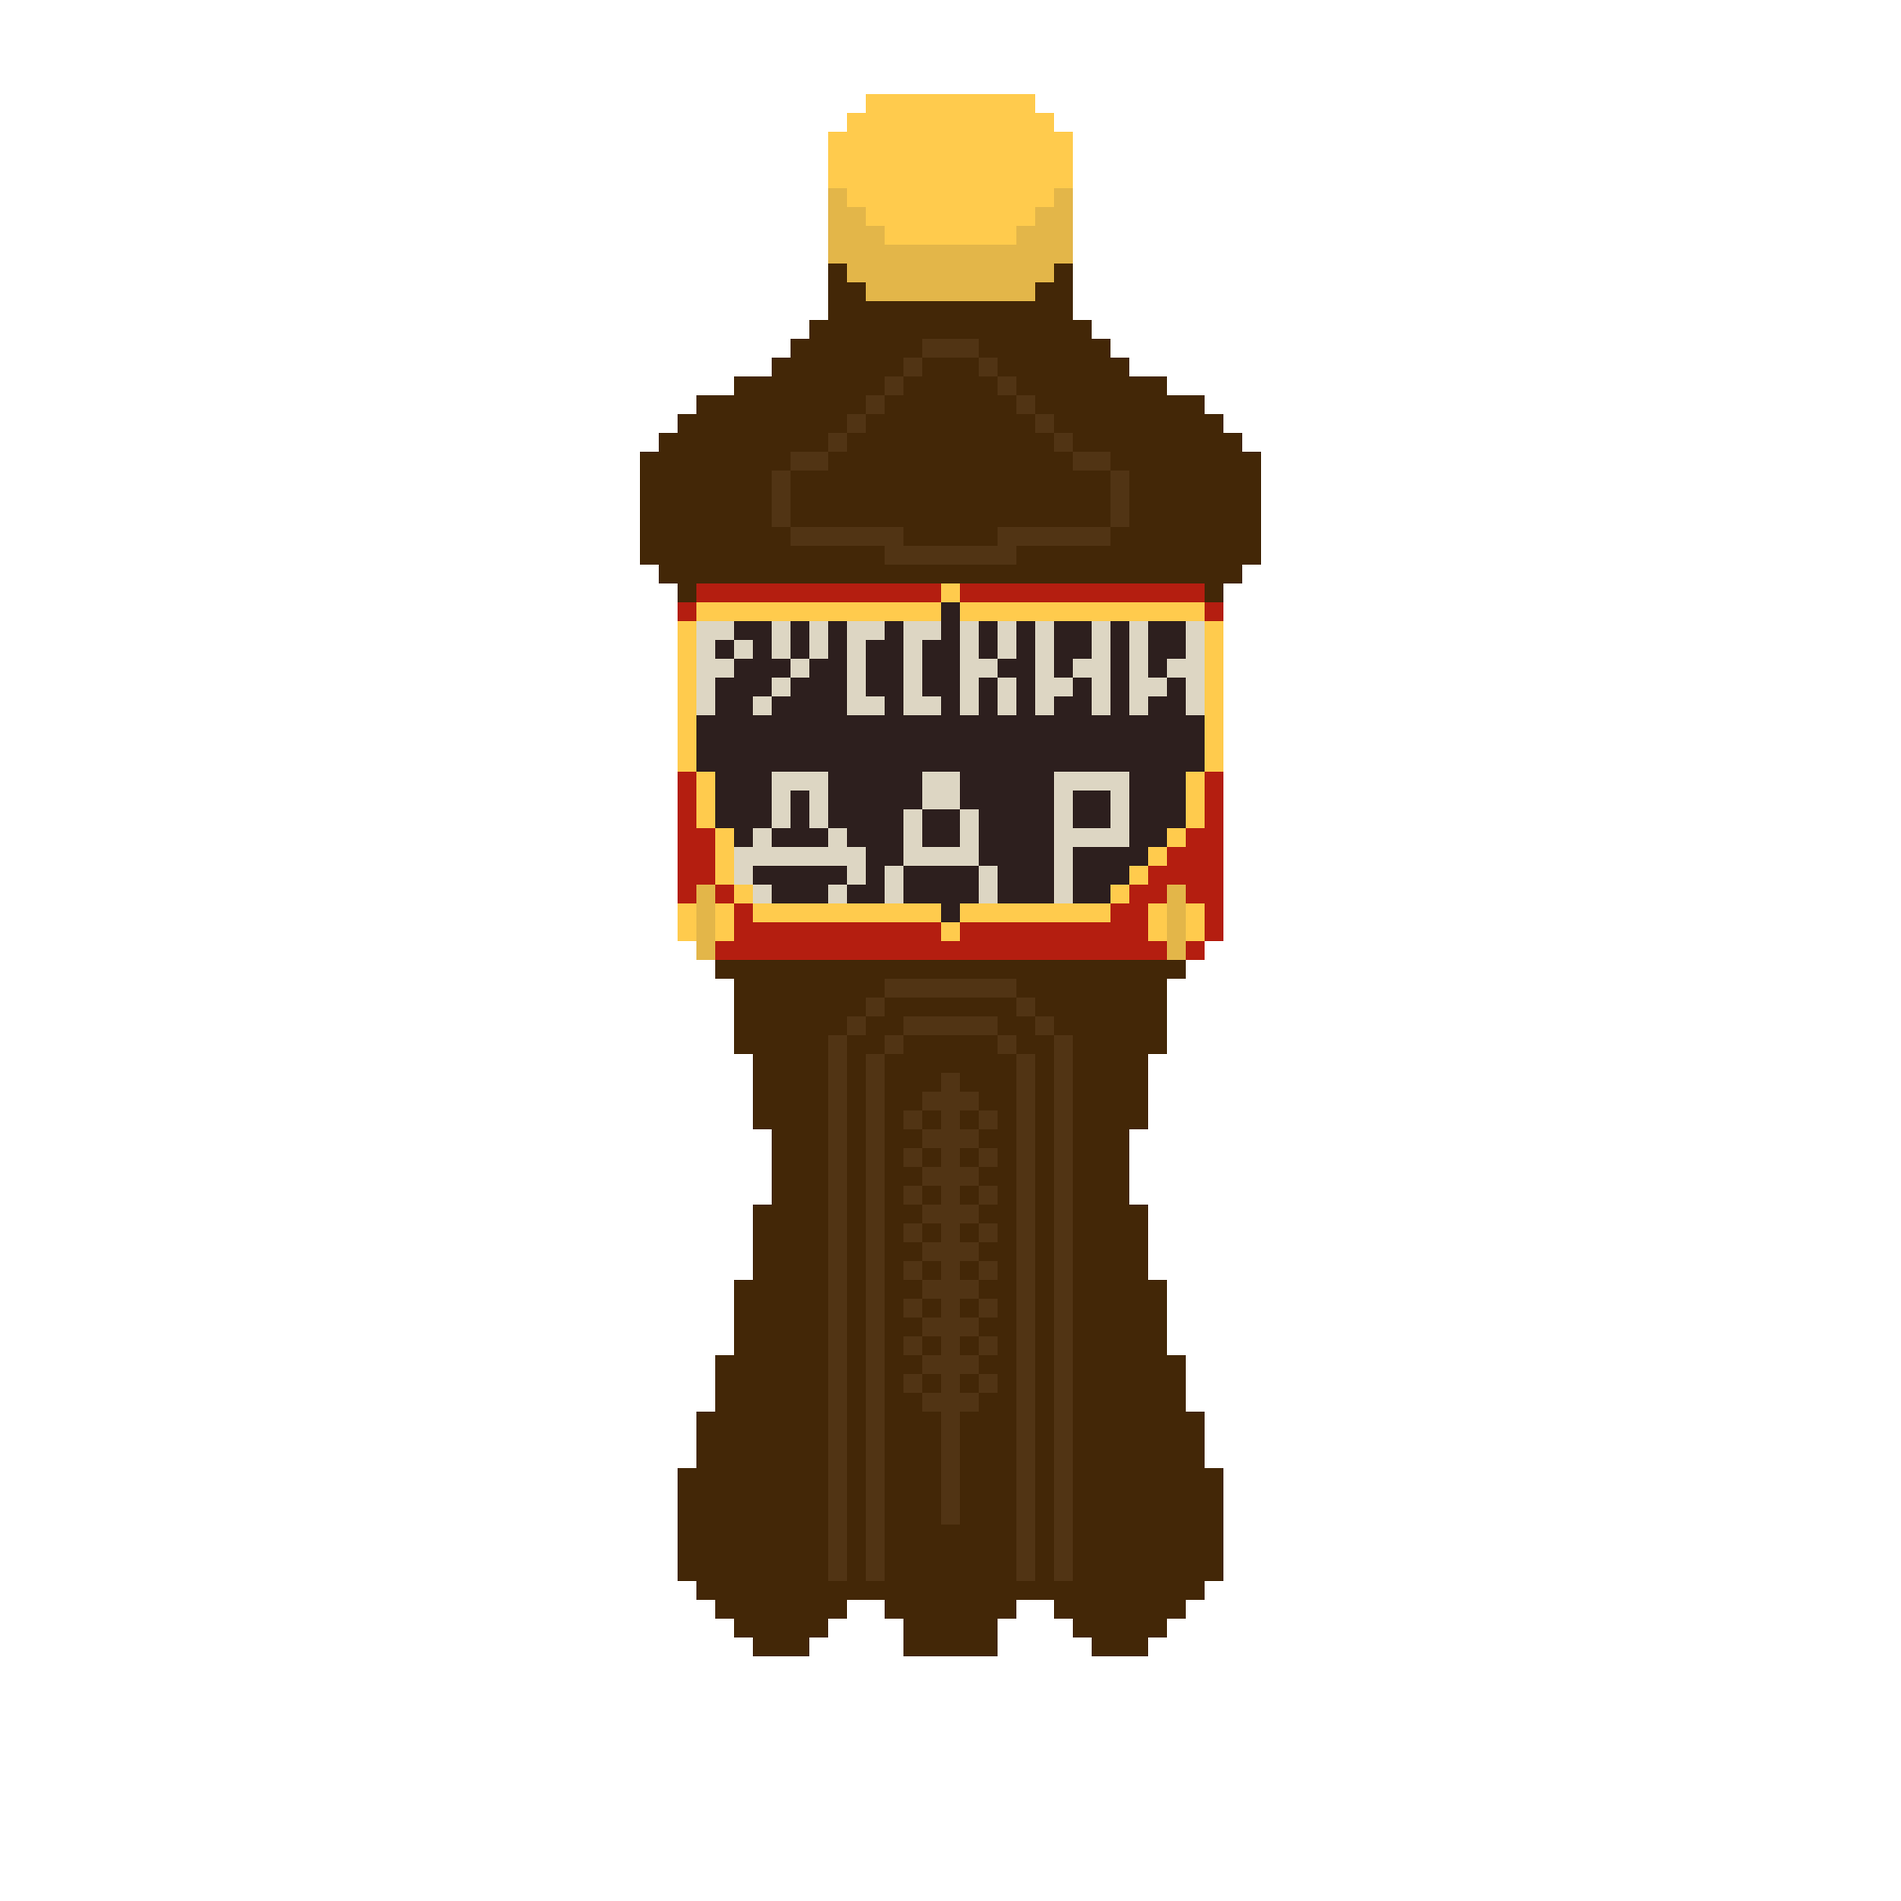
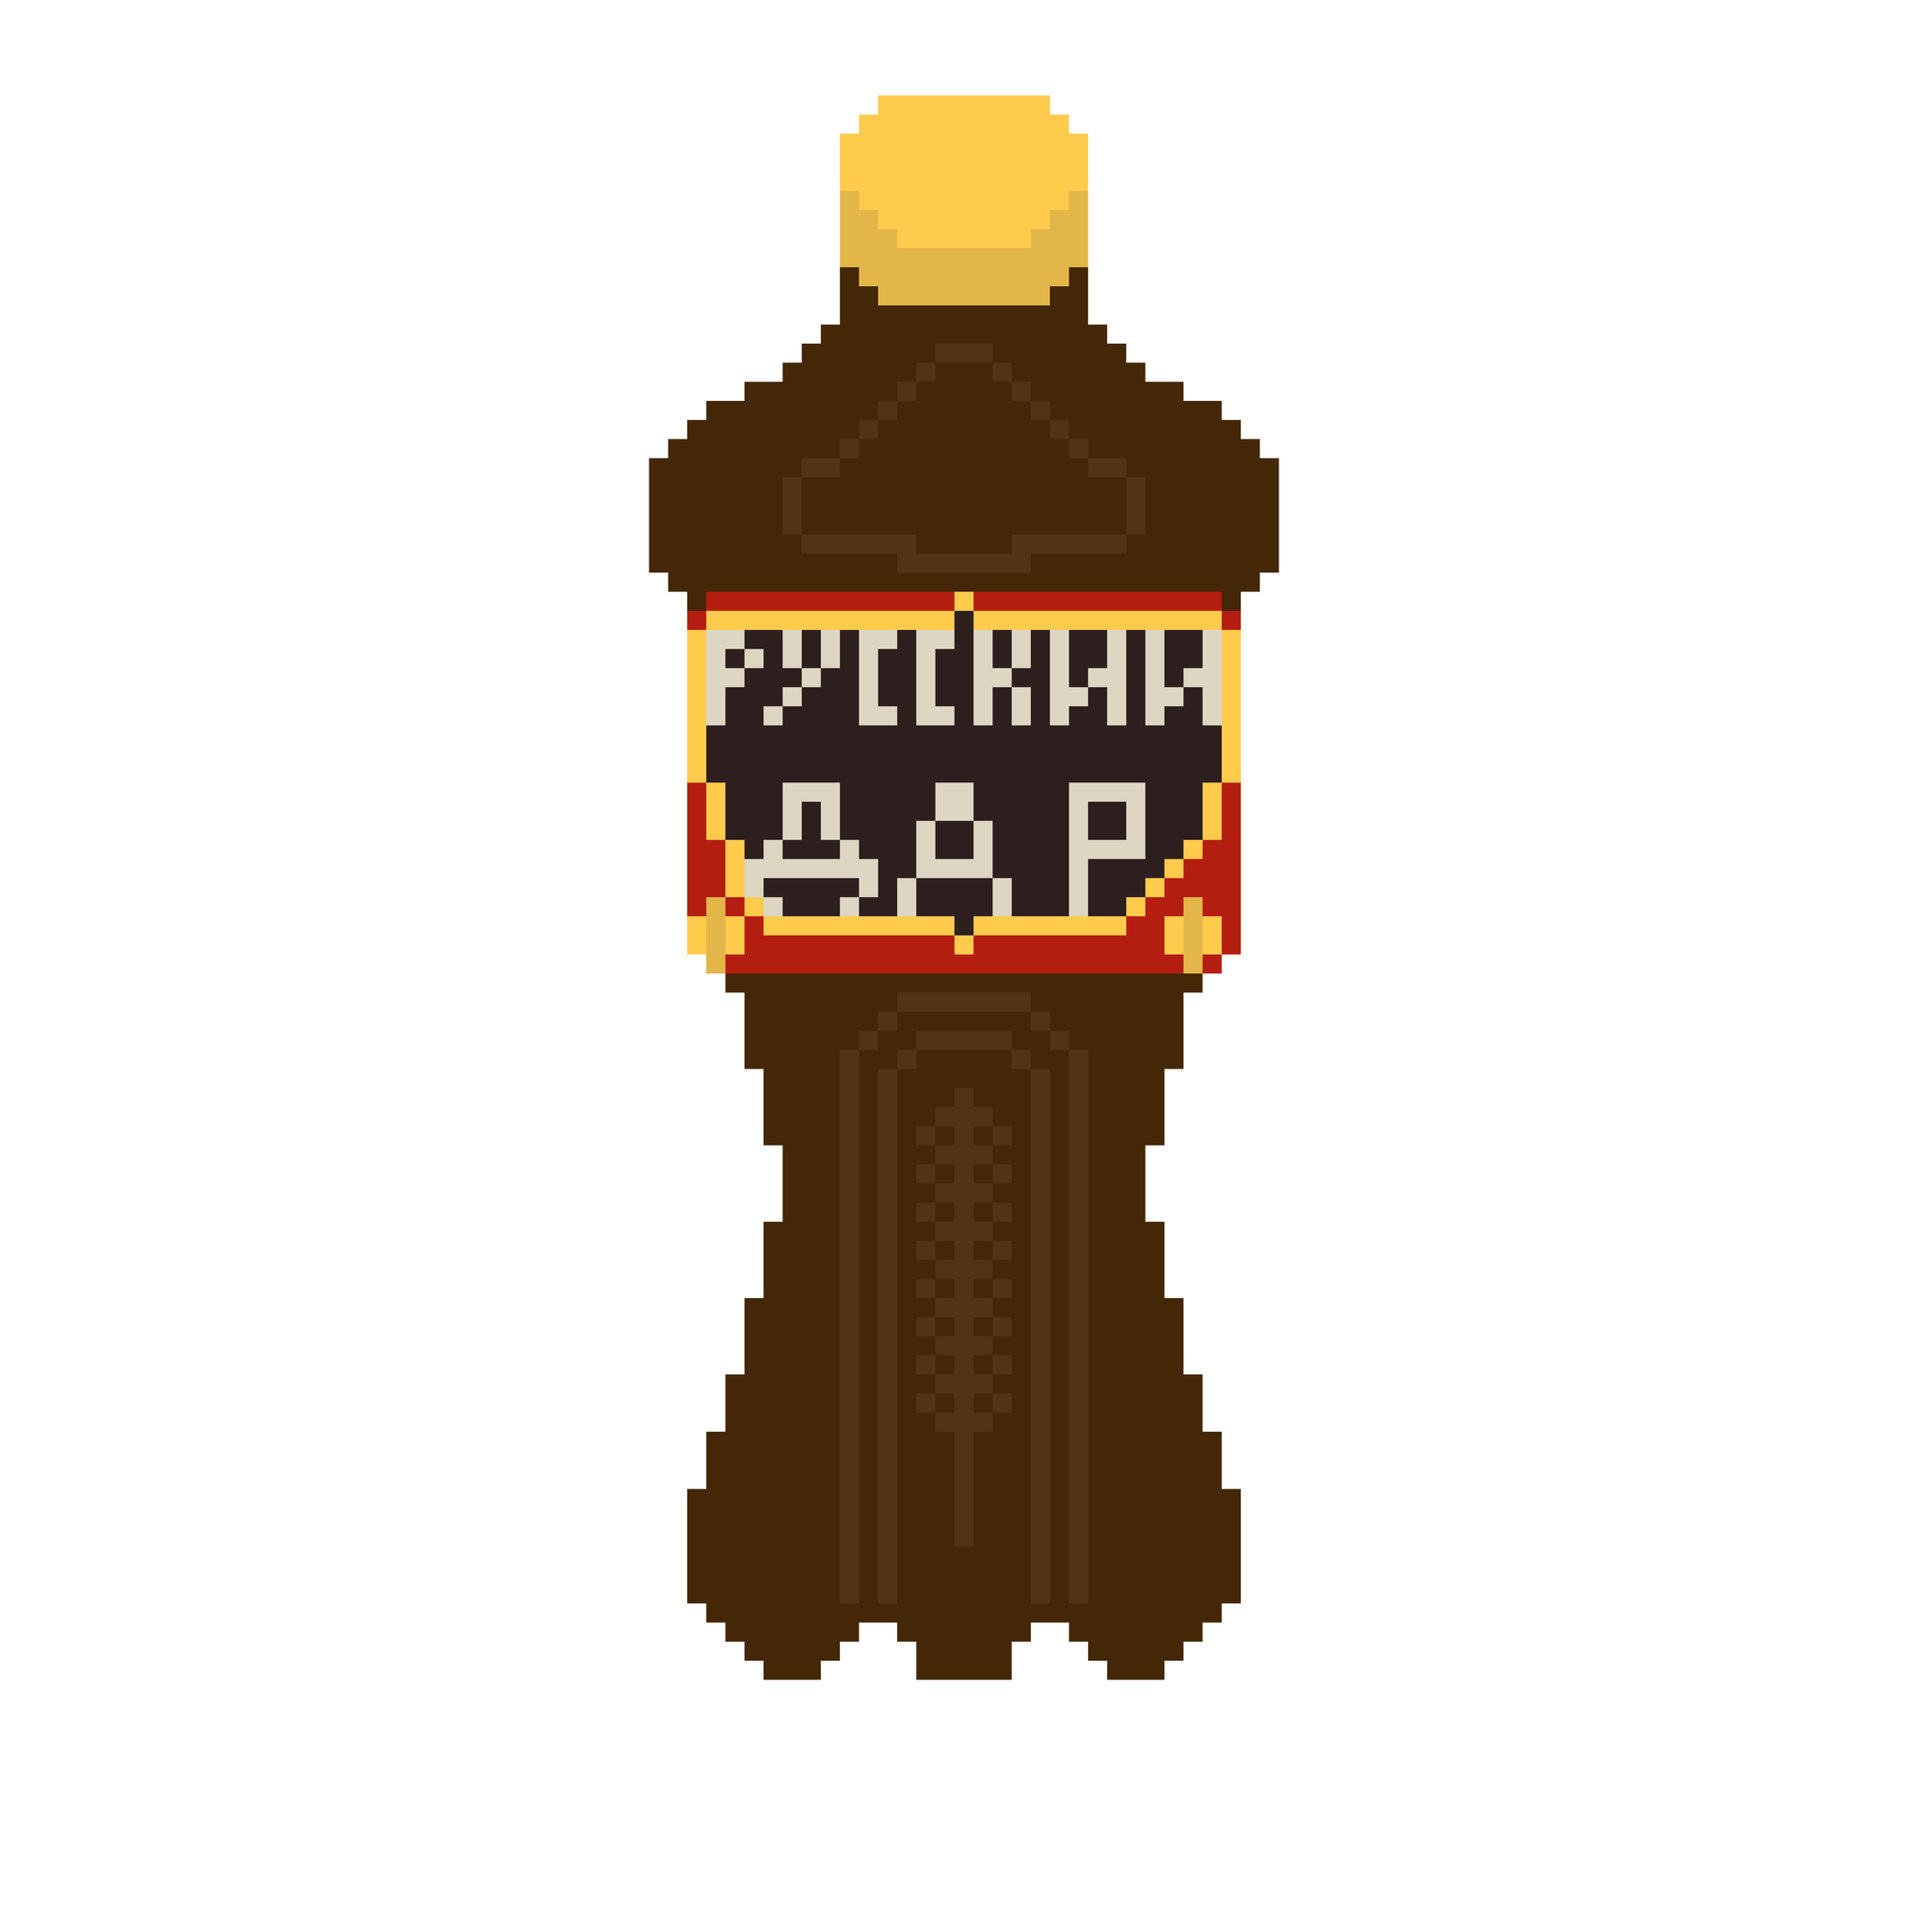
GRAIN FINALLY FIXED(for real now)

Changed region(s): [[0.5614, 0.4054, 0.5926, 0.4366], [0.4054, 0.4054, 0.4366, 0.4366]]

diff --git a/README.md b/README.md
@@ -1,5 +1,5 @@
 # PlayerThingsPaperBin
- Это версия ресурспака 2.0.1 В ЧЕСТЬ ВТОРОГО СЕЗОНА ВЕЛИКОГО PaperBin на смену текстуры
+ Это версия ресурспака 2.0.2 В ЧЕСТЬ ВТОРОГО СЕЗОНА ВЕЛИКОГО PaperBin на смену текстуры
  при переименовывании для игроков сервера PaperBin.
 
  Если вы хотите добавить свой предмет, то нарисуйте текстуру и напишите мне название и что это за предмет.
@@ -7,7 +7,7 @@
 # Установка
  1. Чтобы ресурспак заработал вам нужно достать папку PlayerThingsPaperBin из той папки,
  что вы скачали и закинуть её в .minecraft/resourcepacks
- ВАЖНО!!! Если у вас есть другие ресурспаки, которые меняют текстуры предметов выключите эти ресурспаки!
+ ВАЖНО!!! Если у вас есть другие ресурспаки, которые меняют текстуры предметов выключите эти ресурспаки или правьте их вручную!
 
 # Предметы
  1. Тотем от YTpooshistic. При переименовании тотема в:"Авантюрист" 
@@ -31,23 +31,19 @@
  7. Стрела от SladkijPupsik. При переименовании стрелы в:"Пуля"
  стреле добавиться текстура, как в директории PlayerThingsPaperBin-main/item/item7.png
 
- 8. ВРЕМЕННО НЕ РАБОТАЕТ Незеритовый нагрудник от YTpooshistic. При переименовании
- нагрудника в:"РАБОЧАЯ ФОРМА НЕГРА" нагруднику добавиться текстура, как в директории
- PlayerThingsPaperBin-main/item/item8.png
-
- 9. Бутылка мёда от SladkijPupsik. При переименовании бутылки в:"Miau"
+ 8. Бутылка мёда от SladkijPupsik. При переименовании бутылки в:"Miau"
  бутылке добавиться текстура, как в директории PlayerThingsPaperBin-main/item/item9.png
 
- 10. Тотем от SladkijPupsik. При переименовании тотема в:"Cartman"
+ 9. Тотем от SladkijPupsik. При переименовании тотема в:"Cartman"
  тотему добавиться текстура, как в директории PlayerThingsPaperBin-main/item/item10.png
 
- 11. Тотем от PrivetPopsik. При переименовании тотема в:"Тянка Этого Мира"
+ 10. Тотем от PrivetPopsik. При переименовании тотема в:"Тянка Этого Мира"
  тотему добавиться текстура, как в директории PlayerThingsPaperBin-main/item/item11.png
 
- 12. Незеритовый меч от lkgamer228. При переименовании меча в:"Katana"
+ 11. Незеритовый меч от lkgamer228. При переименовании меча в:"Katana"
  мечу добавиться текстура, как в директории PlayerThingsPaperBin-main/item/item12.png
 
- 13. Хлеб от Borshevey. При переименовании хлеба в:"Доширак"
+ 12. Хлеб от Borshevey. При переименовании хлеба в:"Доширак"
  хлебу добавиться текстура, как в директории PlayerThingsPaperBin-main/item/item13.png
 
 # Элитры
@@ -59,23 +55,22 @@
  
 # Титры
  1. Discord gorkareplay, ник в Майнкрафт gorkareplay - я, разработчик этого ресурспака,
- игрок и модератор сервера PaperBin и создатель текстуры для элитр №1, Плащ
+ игрок первого и второго сезона сервера PaperBin и создатель текстуры для элитр №1, Плащ.
  
- 2. Discord ytPooshistic, ник в Майнкрафт YTpooshistic - игрок, модератор и создатель
- сервера PaperBin и создатель текстур для предметов №1, Авантюрист, №4, РУССКИЙ ДАР, №8,
- РАБОЧАЯ ФОРМА НЕГРА.
+ 2. Discord ytPooshistic, ник в Майнкрафт YTpooshistic - игрок первого и второго сезона, админ и создатель
+ сервера PaperBin и создатель текстур для предметов №1, Авантюрист, №4, РУССКИЙ ДАР.
 
- 3. Discord _MineMark_, ник в Майнкрафт lkgamer228 - игрок сервера PaperBin
+ 3. Discord _MineMark_, ник в Майнкрафт lkgamer228 - игрок первого и второго сервера PaperBin
  и создатель текстуры для предмета №2, Fire и №12, Katana.
 
- 4. Discord а нету, он потерпит, ник в Майнкрафт тоже нету, потерпит - создатель
+ 4. Discord а нету, он потерпит, ник в Майнкрафт тоже нету, потерпит, игрок первого сезона PaperBin - создатель
  текстуры для элитр №2, White CU... .
 
- 5. Discord maurmaur_123, ник в Майнкрафт PrivetPopsik - игрок сервера PaperBin
+ 5. Discord maurmaur_123, ник в Майнкрафт PrivetPopsik - игрок первого и второго сезона сервера PaperBin
  и создательница текстур для предметов №3, Тянтем, №5, Енотян и №11, Тянка Этого Мира.
 
- 6. Discord enot988, ник в Майнкрафт SladkijPupsik - игрок сервера PaperBin
+ 6. Discord enot988, ник в Майнкрафт SladkijPupsik - игрок первого и второго сезона сервера PaperBin
  и создатель текстур для предметов №6, Дробобовик, №7, Пуля, №9, Miau и №10, Cartman.
 
- 7. Discord psr0, ник в Майнкрафт Borshevey - участник Discord сервера PaperBin и создатель
+ 7. Discord psr0, ник в Майнкрафт Borshevey - игрок второго сезона сервера PaperBin и создатель
  текстуры для предмета №13, Доширак.
